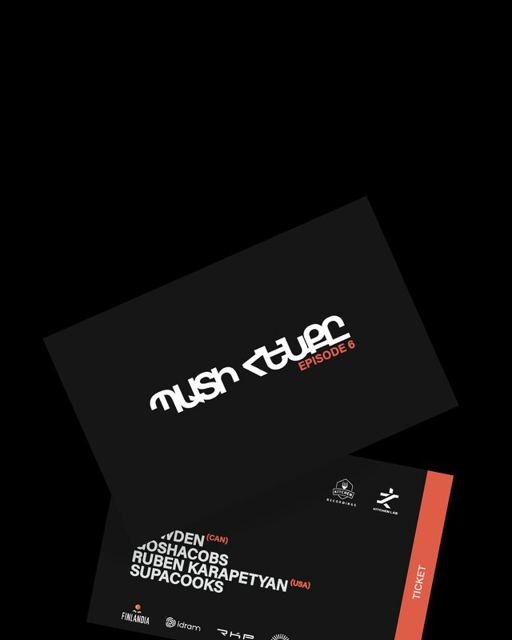
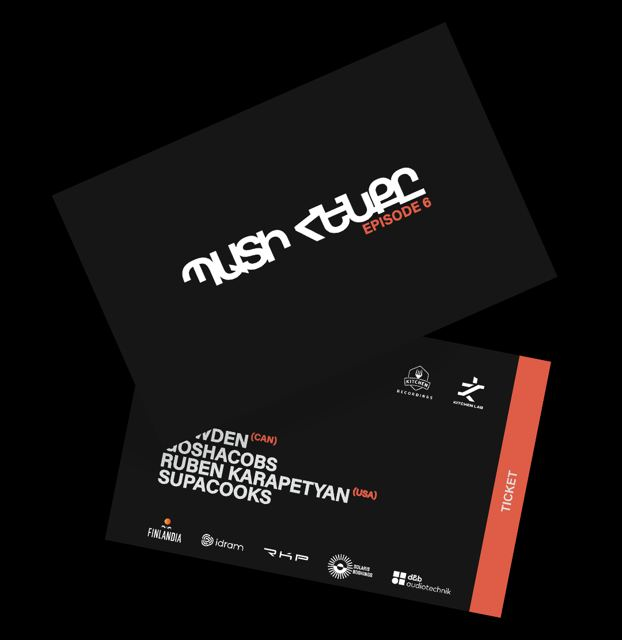
Pati Henqy: new cropped ticket; text spans the column; the card slides in first, then the files fade in
Claude-Session: https://claude.ai/code/session_01PTYDAo7PNH15T4GmHbexcA

diff --git a/index.html b/index.html
@@ -166,7 +166,7 @@ header,footer,#fig,#traces{transition:opacity .5s var(--quint)}
 #view{position:fixed;inset:0;z-index:34;overflow-y:auto;overscroll-behavior:contain;-webkit-overflow-scrolling:touch;visibility:hidden}
 #view.open{visibility:visible}
 /* the page sits on the right half; the left half shows the map, blurred */
-#view::before{content:"";position:fixed;top:0;bottom:0;left:50%;right:0;background:var(--bg);z-index:-1;transform:translateX(100%);transition:transform .7s var(--expo)}
+#view::before{content:"";position:fixed;top:0;bottom:0;left:50%;right:0;background:var(--bg);z-index:-1;transform:translateX(100%);transition:transform .45s var(--expo)}
 #view.in::before{transform:none}
 #view.out::before{transform:translateX(100%);transition-duration:.45s}
 #view{isolation:isolate}
@@ -267,7 +267,7 @@ form.contact button{justify-self:start;background:var(--fg);color:var(--bg);padd
 .hrow button{white-space:nowrap}
 @media (max-width:760px){ .hrow{flex-wrap:wrap;gap:6px} .hrow .chips{display:flex;width:100%;overflow-x:auto;scrollbar-width:none} .hrow .chips::-webkit-scrollbar{display:none} .hrow button{padding:4px 10px} .hrow .rt{margin-left:auto} #zFit{display:none} }
 /* project page: short texts between the images */
-.media .txt{padding:22px 0 26px;max-width:52ch}
+.media .txt{padding:22px 0 26px}
 .media .txt .k{display:block;color:var(--g1);margin-bottom:8px}
 .media .txt p{font-size:16px;line-height:1.45;letter-spacing:-.01em}
 .media .txt p+p{margin-top:10px}
@@ -306,6 +306,8 @@ form.contact .note{min-height:1.2em;font-size:13px}
 /* a project can open on black */
 #view.dark{--bg:#0a0a0a;--fg:#f1f1f1;--g1:#8d8d8d;--g2:#2a2a2a;--g3:#151515;color:var(--fg)}
 #view.dark a{color:var(--fg)}
+/* the page (its black or grey card) arrives first, then the files fade in */
+#view .media{transition:opacity .45s var(--quint) .18s} #view:not(.in) .media{opacity:0;transition:none}
 </style>
 <script data-goatcounter="https://mardstudio.goatcounter.com/count" async src="https://gc.zgo.at/count.js"></script>
 </head>
@@ -379,7 +381,7 @@ const P = [
  {slug:"pati-henqy", name:"Pati Henqy Ep. 6", client:"Kitchen Lab", year:"2026", cats:["Event Design","Branding"], size:320, short:"Pati Henqy",
   tiles:[MF("pati-henqy","hero","p","v","Motion poster"), MF("pati-henqy","night","l","i","On the night"), MF("pati-henqy","goshacobs","p","v","Goshacobs"),
          MF("pati-henqy","ruben","p","v","Ruben Karapetyan"), MF("pati-henqy","dale","p","v","Dale"), MF("pati-henqy","supacooks","p","v","Supacooks"),
-         MF("pati-henqy","process","l","i","Countdown"), { ...MF("pati-henqy","ticket","p","i","Ticket"), crop: "1280/1120", pos: "center 78%", w: "58%" }],
+         MF("pati-henqy","process","l","i","Countdown"), { ...MF("pati-henqy","ticket","s","i","Ticket"), w: "58%" }],
   layout:[["hero"],["night"],["goshacobs","ruben"],["dale","supacooks"],["process"],["ticket"]],
   canvas:["dale","hero","night","process","ticket"], dark: true,
   rowNotes:{ goshacobs: ["DJ cards", "Hayfilm Studio is known for its stone intro, so the whole night was built from that same concrete. Every DJ card breaks out of the stone like the poster does, and every one moves: on a busy feed a moving card stops the scroll and gives a feel of the night before anyone arrives. One texture, one motion language, five artists, all recognisable as one event."] },
@@ -1218,7 +1220,7 @@ async function openProject(i, el){
     if (spot.el){ used.add(spot.el); spot.el.classList.add("src-hidden"); }
     const f = { slot, el: spot.el, k: spot.k, bx: spot.bx, by: spot.by, src, home: spot.from ? clicked.rect : null };
     flights.push(f);
-    runs.push(flyCard(src, from, to, 0, 1000, 0).then(c => { slot.classList.remove("wait"); requestAnimationFrame(() => c.remove()); }));
+    runs.push(flyCard(src, from, to, 300, 900, 0).then(c => { slot.classList.remove("wait"); requestAnimationFrame(() => c.remove()); }));
   });
   slots.forEach(sl => { if (!flights.some(f => f.slot === sl)) sl.classList.remove("wait"); });
   setTimeout(() => view.classList.add("in"), 120);        // text rises line by line while the images travel
